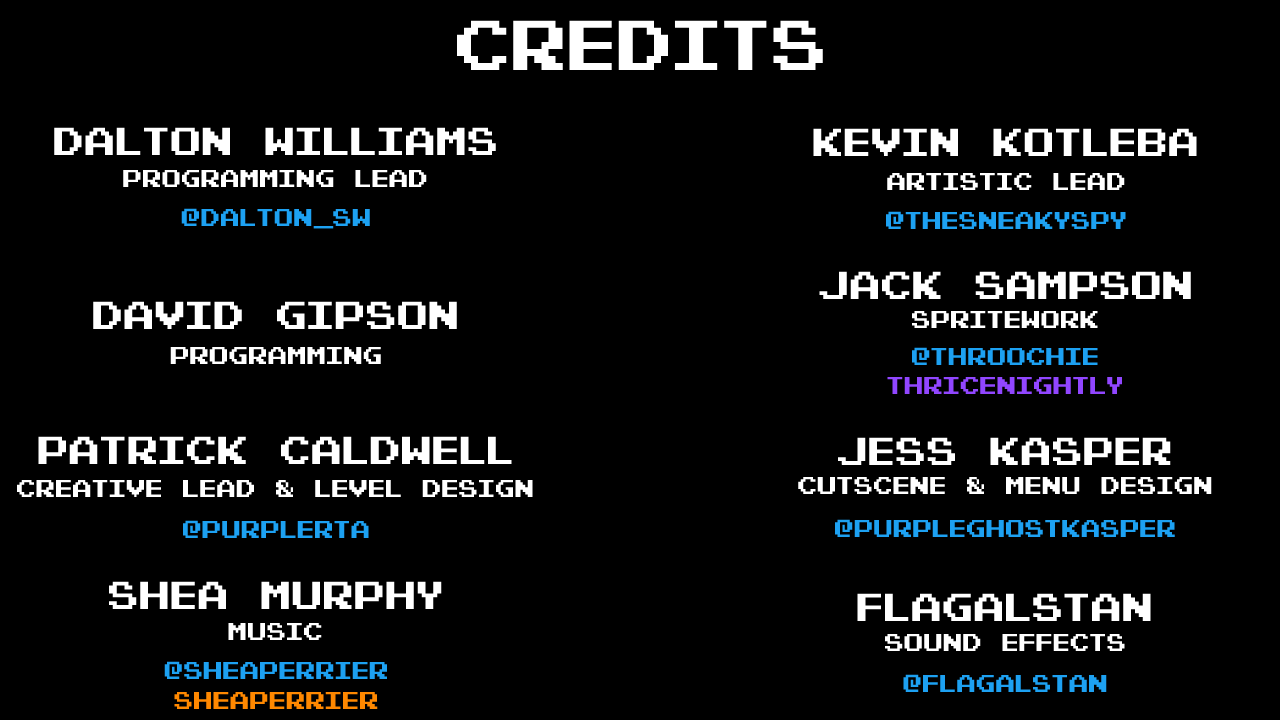
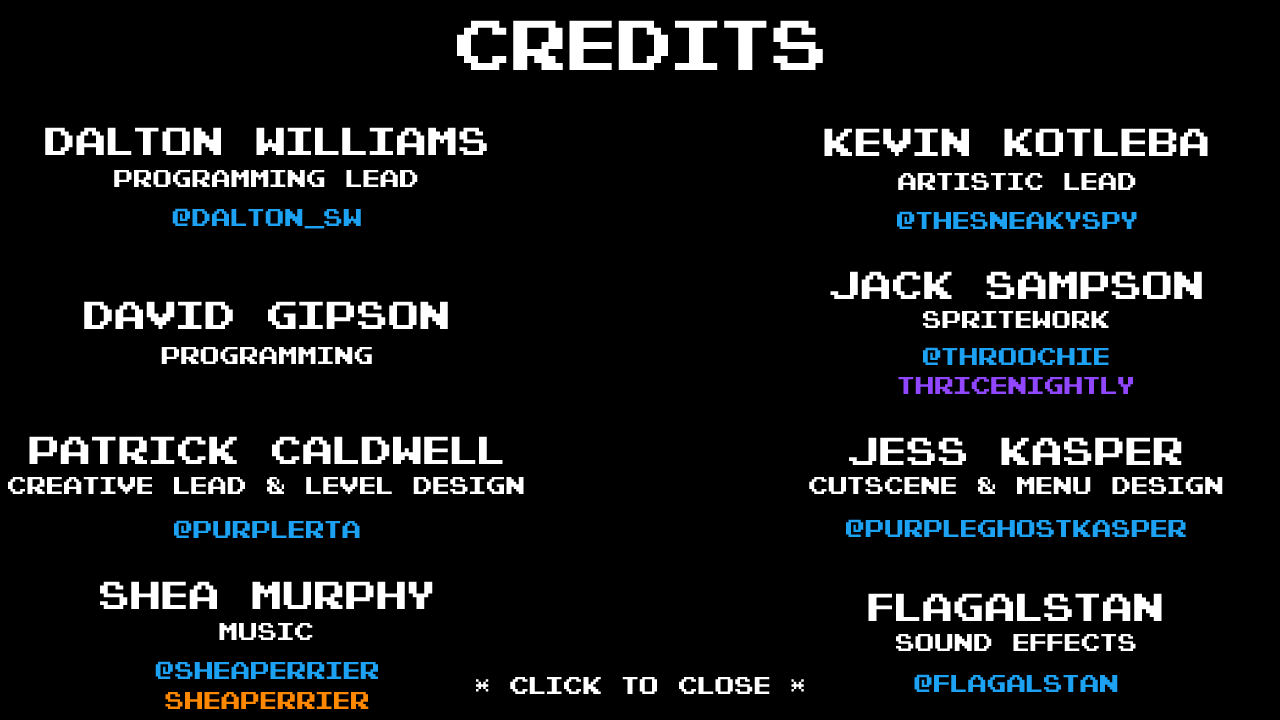
Credits scene

diff --git a/Project/Scripts/Credits.cs b/Project/Scripts/Credits.cs
@@ -1,0 +1,13 @@
+using Godot;
+using System;
+
+public class Credits : Node2D
+{
+    public override void _UnhandledInput(InputEvent inputEvent)
+	{
+		if (inputEvent is InputEventMouseButton mouseButton)
+        {
+            GetTree().Quit();
+        }
+	}
+}
